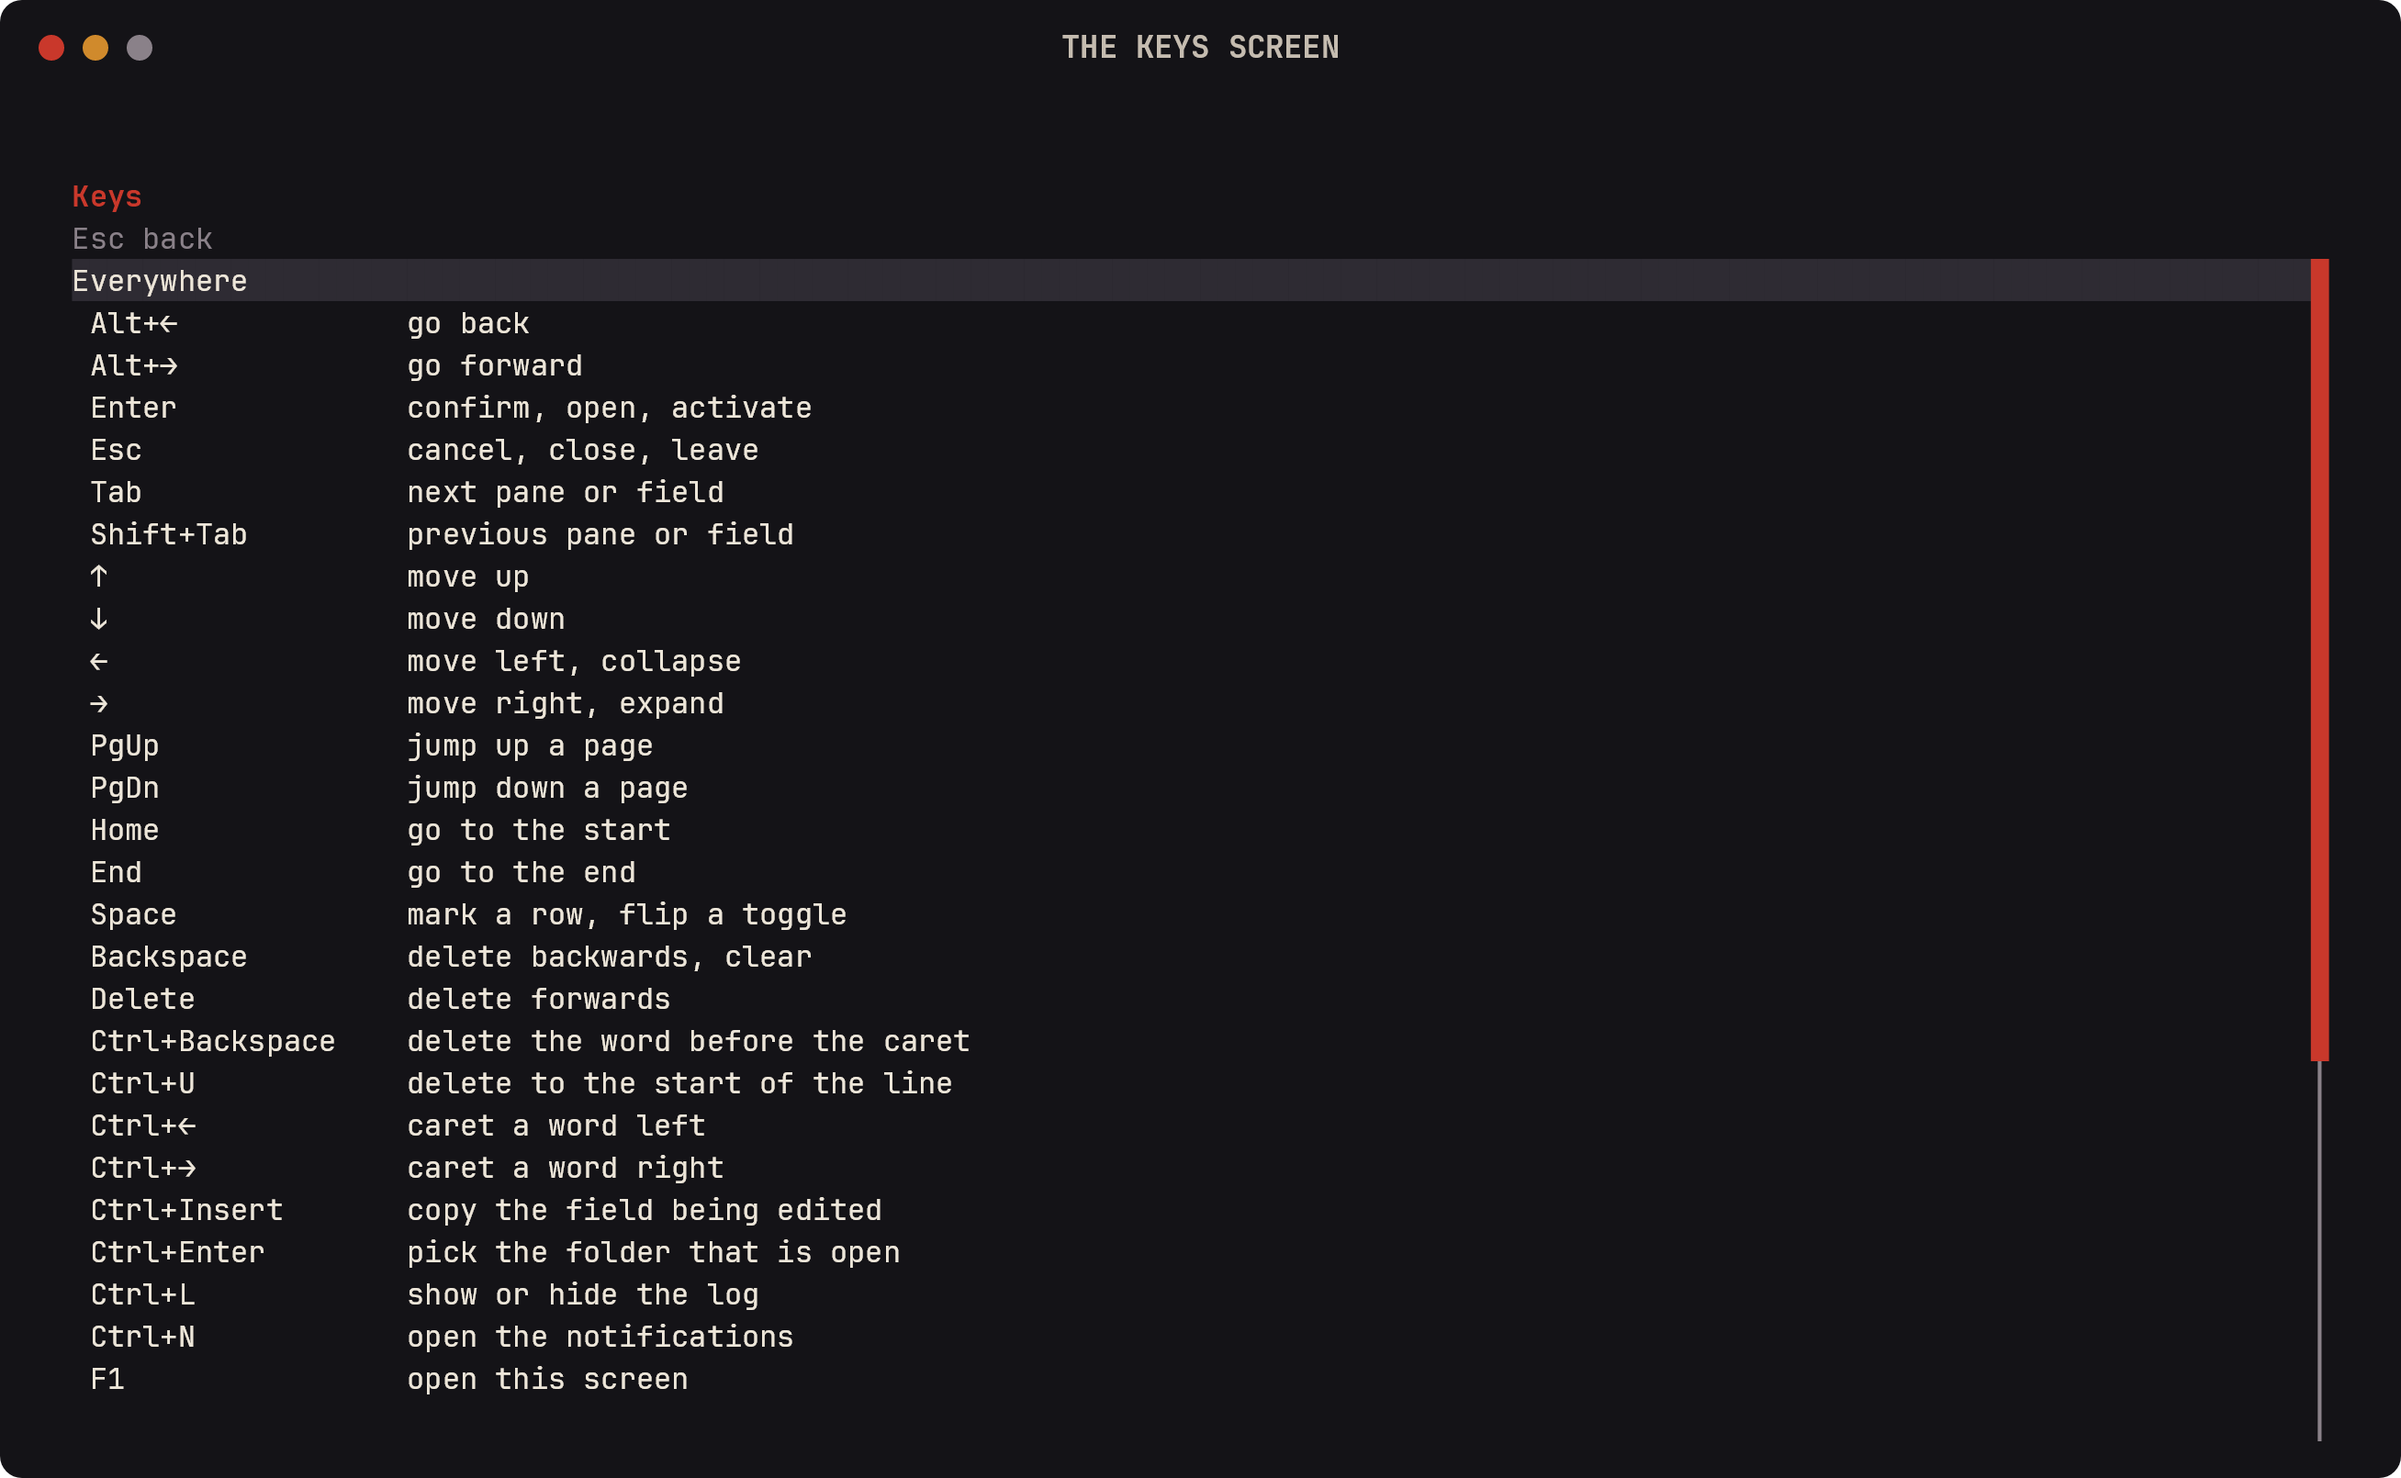
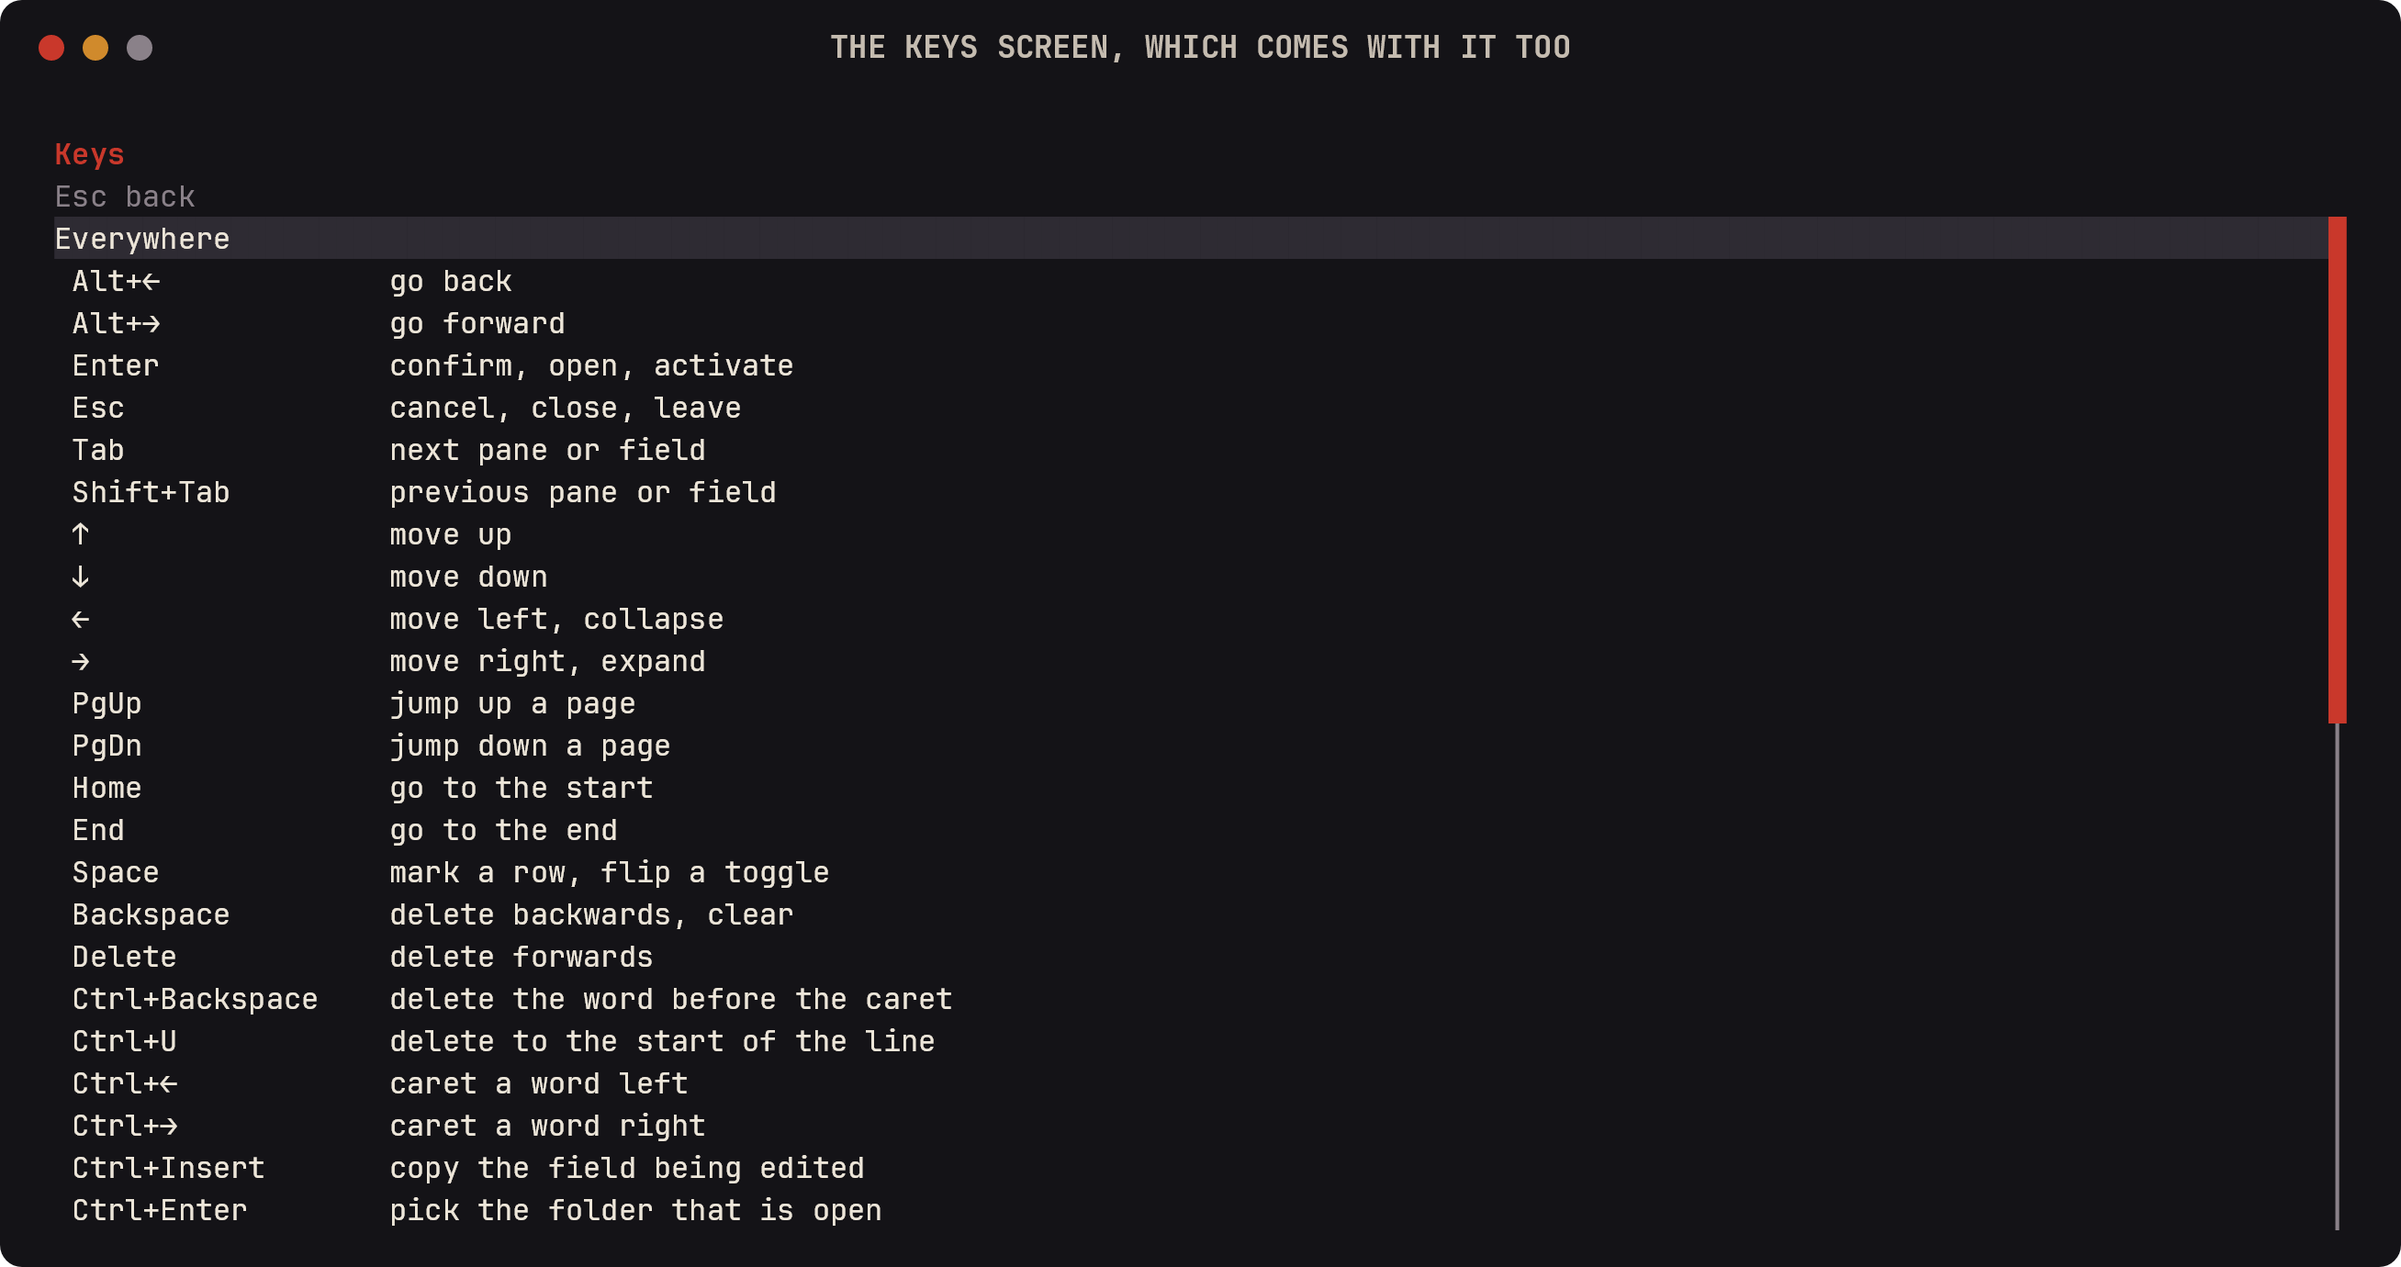
Show the commander in the docs instead of the sample that moved out

diff --git a/src/pages/index.tsx b/src/pages/index.tsx
@@ -202,13 +202,13 @@ function Screenshot(): ReactNode {
       <div className="container">
         <h2>What it looks like</h2>
         <p>
-          <Link to="/docs/showcase">Arlecchino.Packages</Link> is a dependency review of a .NET
-          solution built on the framework: a sortable table, tabs, a tree, a form on atoms, every
-          modal, the command palette and the file picker.
+          <Link to="/docs/showcase">Arlecchino.Commander</Link> is a Midnight Commander built on the
+          framework: two panels over local disks, SFTP and FTP, every modal, work that runs in the
+          background and reports itself, the command palette and the keys screen.
         </p>
         <img
-          src={useBaseUrl('img/screenshots/inventory.png')}
-          alt="Every package in the solution, coloured by what is wrong with it"
+          src={useBaseUrl('img/screenshots/panels.png')}
+          alt="Two panels over a local disk"
         />
       </div>
     </section>

diff --git a/docs/showcase.md b/docs/showcase.md
@@ -1,50 +1,82 @@
 ---
 title: Showcase
 sidebar_label: Showcase
-description: The three sample applications that ship in the repository, what each one demonstrates, and how to render any of their screens as a single frame.
+description: The applications built on Arlecchino, what each one demonstrates, and how to render any of their screens as a single frame.
 ---
 
 # Showcase
 
-Three applications ship in the repository. They are the readable version of everything on these pages:
-each one is built on the public API and nothing else.
+Three applications are the readable version of everything on these pages: each one is built on the
+public API and nothing else. Two ship beside the framework; the largest has a repository of its own.
 
-## Arlecchino.Packages
+## Arlecchino.Commander
 
-A dependency review for a .NET solution, and the largest of the three. It runs `dotnet list package`
-four times — the graph, newer versions, advisories, deprecations — merges the reports into one
-catalogue, and shows what came out across four screens.
+A Midnight Commander, and the largest of the three. Two panels, the function keys where they have
+always been, and the same panel over a local disk, an SFTP server or an FTP one. It lives in
+[its own repository](https://github.com/The1fEst/Arlecchino.Commander) and takes the framework from
+NuGet, the way an application of yours would.
 
 ```bash
-dotnet run --project samples/Arlecchino.Packages
+dotnet run --project src/Arlecchino.Commander -- C:\some\folder C:\another
 ```
 
-![Every package in the solution, coloured by what is wrong with it](/img/screenshots/inventory.png)
+![Two panels over a local disk](/img/screenshots/panels.png)
 
-With no arguments it reads the fixture solution kept beside it — three projects wired to packages that
-are outdated, vulnerable, deprecated and resolved at more than one version, so every screen has
-something to show without reaching for a real repository. `--solution <path>` points it at one of
-yours.
+Each panel is a [table](table.md) over one folder. `Space` marks a row, and what is marked is counted
+at the foot of the panel:
 
-| Screen | What it shows | Uses |
+![Three files marked, counted at the foot of the panel](/img/screenshots/marks.png)
+
+Either panel sorts by name, size or date, narrows down to a filter, and reads a file without leaving
+the panels:
+
+![The right panel sorted by size](/img/screenshots/sorted.png)
+
+![The panel filtered by name](/img/screenshots/filter.png)
+
+![A file read without leaving the panels](/img/screenshots/viewer.png)
+
+| Part | What it shows | Uses |
 |---|---|---|
-| Inventory | A filtered table behind tabs | [`Table`](table.md), [`Tabs`](tabs.md), [text modal](modals.md#text) |
-| Package | One package, its advisories and every project that pulls it in | [Regions](layout.md#regions), [`ListBox`](lists.md) |
-| Projects | The dependency tree beside a per-project table | [`Tree`](tree.md), [`FocusRing`](focus.md) |
-| Upgrade | A form that writes `dotnet add package` commands and can run them | [`Form`](forms.md), [atoms](atoms.md), every [modal](modals.md) |
+| The panels | Two tables in one layout, either of which may hold the focus | [`Table`](table.md), [`PaneTree`](layout.md), [`FocusRing`](focus.md) |
+| The menu | Sections of a menu offered as lists | [choice modal](modals.md), [view commands](commands.md) |
+| Copy, move, delete | Questions asked first, then the work off the drawing thread | [modals](modals.md), [rendering](rendering.md) |
+| Work in flight | A bar, what is being worked on now, and a key that stops it | [status bar](status-bar.md), [notifications](notifications.md) |
+| Servers | A panel over SFTP or FTP, and a screen that runs commands over SSH | [stores](stores.md), [`Form`](forms.md), [async atoms](async-atoms.md) |
 
-![The vulnerable tab](/img/screenshots/vulnerable.png)
+`F9` opens the menu, and what can be done to what is marked is one list under it:
 
-![The dependency tree beside a per-project table](/img/screenshots/projects.png)
+![The menu, opened by F9](/img/screenshots/menu.png)
 
-![The upgrade form and the commands it would run](/img/screenshots/upgrade.png)
+![What can be done to what is marked](/img/screenshots/file-menu.png)
+
+Copying and deleting ask first, with the negative answer selected, so a stray `Enter` cancels:
+
+![Copying asks where to](/img/screenshots/copy.png)
+
+![Deleting asks first, with no selected](/img/screenshots/delete.png)
+
+Work of any size runs in the background with a bar and `Esc` to stop it, and reports itself as a
+[notification](notifications.md) that opens in full and turns into what came of it:
+
+![A copy running in the background, with a bar and Esc to stop](/img/screenshots/progress.png)
+
+![The same copy opened in full, with Stop offered](/img/screenshots/notification.png)
+
+![The same entry once the copy is over](/img/screenshots/done.png)
+
+A panel connects by a `Host` entry from `~/.ssh/config`, browses the server as it browses a disk, and
+the same credentials run a command on it:
+
+![Hosts read from ~/.ssh/config](/img/screenshots/hosts.png)
+
+![A panel browsing a server over SFTP](/img/screenshots/server.png)
+
+![A command run on that server](/img/screenshots/ssh.png)
 
 It runs **without the output line**, so the bottom row belongs to the screen's own
-[status bar](status-bar.md), and `:h` turns the hints box off and on — the palette command flips
-`options.ShowHints` at runtime.
-
-The four screens render headlessly as `--frame inventory 120x30`, `--frame package 120x26`,
-`--frame projects 120x30` and `--frame upgrade 120x24`.
+[status bar](status-bar.md), and every screen renders headlessly — `--frame 132x26`, with `--keys` to
+play keys first and `--connect` to open a panel on a server.
 
 ## Arlecchino.Processes
 
@@ -72,10 +104,6 @@ the file picker.
 dotnet run --project samples/Arlecchino.Sample
 ```
 
-![The command palette over the inventory](/img/screenshots/palette.png)
-
-![The file picker asking for another solution](/img/screenshots/picker.png)
-
 The frame goes to stdout as ANSI text; the view name is `default`, `about`, `picker`, `widgets`, or one
 of `password`, `number`, `slider`, `toggle`, `multi`, `date`, `time`, `color` to render the matching
 modal over the default view:
@@ -86,13 +114,16 @@ dotnet run --project samples/Arlecchino.Sample -- --frame widgets 100x24
 
 ## Rendering any of them as a frame
 
-Every sample takes `--frame <view> <width>x<height>` and writes one composed frame to stdout. That is
-the fastest way to look at a layout, and it is three lines of wiring in an application of your own —
-see [Rendering](rendering.md#rendering-without-a-terminal).
+Every one of them takes `--frame` and writes a composed frame to stdout — the samples beside the
+framework name a view, the commander names a size. That is the fastest way to look at a layout, and it
+is three lines of wiring in an application of your own — see
+[Rendering](rendering.md#rendering-without-a-terminal).
+
+The command palette and the keys screen are the framework's own, and appear in every one of them:
+
+![The command palette](/img/screenshots/palette.png)
 
 ![The keys screen](/img/screenshots/help.png)
-
-![The log overlay](/img/screenshots/log.png)
 
 ## Built something?
 

diff --git a/docs/getting-started.md b/docs/getting-started.md
@@ -112,22 +112,19 @@ dotnet run --project samples/Arlecchino.Processes
 being written down twice. It renders headlessly too — `--frame processes 110x26` or
 `--frame details 90x18`.
 
-`Arlecchino.Packages` is the largest of the three: a dependency review for a .NET solution. It runs
-`dotnet list package` four times — the graph, newer versions, advisories, deprecations — merges the
-reports into one catalogue, and shows what came out across four screens: a filtered table behind
-[tabs](tabs.md), a package page with its advisories and every project that pulls it in, the
-dependency [tree](tree.md) beside a per-project table, and an upgrade [form](forms.md)
-that writes `dotnet add package` commands and can run them:
+[`Arlecchino.Commander`](https://github.com/The1fEst/Arlecchino.Commander) is the largest of the
+three, and the one with a repository of its own: a Midnight Commander with two panels, the function
+keys where they have always been, and the same panel over a local disk, an SFTP server or an FTP one.
+It takes the framework from NuGet, the way an application of yours would.
 
 ```
-dotnet run --project samples/Arlecchino.Packages
+dotnet run --project src/Arlecchino.Commander -- C:\some\folder C:\another
 ```
 
-It runs without the output line, so the bottom row belongs to the screen's own status bar, and `:h`
-turns the hints box off and on — the palette command flips `options.ShowHints` at runtime.
+Each panel is a [table](table.md); the menu behind `F9` is a [choice modal](modals.md) per section;
+copy, move and delete ask their questions as modals and then run off the drawing thread, reporting
+themselves as [notifications](notifications.md) with a bar and a key that stops them.
 
-With no arguments it reads the fixture solution kept beside it — three projects wired to packages
-that are outdated, vulnerable, deprecated and resolved at more than one version, so every screen has
-something to show without reaching for a real repository. `--solution <path>` points it at one of
-yours. The four screens render headlessly as `--frame inventory 120x30`, `--frame package 120x26`,
-`--frame projects 120x30` and `--frame upgrade 120x24`.
+It runs without the output line, so the bottom row belongs to the screen's own status bar. Every
+screen renders headlessly as `--frame 132x26`, with `--keys` to play keys first and `--connect` to
+open a panel on a server.

diff --git a/docs/tutorial-packages.md b/docs/tutorial-packages.md
@@ -6,11 +6,18 @@ description: Build Arlecchino.Packages from an empty project — a real terminal
 
 # Tutorial: a dependency review
 
-This builds `samples/Arlecchino.Packages` from an empty project. It is a real application rather than
-a widget gallery: it runs `dotnet list package` four times, merges the reports, and shows what came out
-across four screens.
+This builds a dependency review from an empty project. It is a real application rather than a widget
+gallery: it runs `dotnet list package` four times, merges the reports, and shows what came out across
+four screens.
 
-![Every package in the solution, coloured by what is wrong with it](/img/screenshots/inventory.png)
+:::note
+
+The application built here shipped in the framework's repository as `samples/Arlecchino.Packages`
+until 2.6.0, and the sample that ships now is
+[Arlecchino.Commander](https://github.com/The1fEst/Arlecchino.Commander) instead. Every line below
+still builds and runs — the project is simply one you create yourself.
+
+:::
 
 By the end you will have used almost everything the framework has — a
 [store](stores.md) of [atoms](atoms.md), an [async atom](async-atoms.md) with a spinner and a progress

diff --git a/docs/table.md b/docs/table.md
@@ -64,11 +64,11 @@ from the [`ListBox`](lists.md) inside, so everything on that page applies here.
 
 ## A worked example
 
-`samples/Arlecchino.Packages` is a sortable table of a solution's packages behind
-[tabs](tabs.md), coloured by what is wrong with each one:
+Each panel of [`Arlecchino.Commander`](https://github.com/The1fEst/Arlecchino.Commander) is a sortable
+table of one folder, coloured by what each row is — a folder, a marked file, a hidden one:
 
 ```bash
-dotnet run --project samples/Arlecchino.Packages -- --frame inventory 120x30
+dotnet run --project src/Arlecchino.Commander -- --frame 132x26 --left . --right src
 ```
 
 See [Showcase](showcase.md).

diff --git a/docs/packages-and-building.md b/docs/packages-and-building.md
@@ -317,7 +317,6 @@ that is the point of it.
 | `src/Arlecchino.Testing` | Headless test host published as a package |
 | `samples/Arlecchino.Sample` | Gallery of every modal and widget, also the headless `--frame` renderer |
 | `samples/Arlecchino.Processes` | A real application: the process list, live-loaded and sortable |
-| `samples/Arlecchino.Packages` | A dependency review of a solution: four screens over `dotnet list package` |
 | `benchmarks/Arlecchino.Benchmarks` | Frame composition, text measurement, input and atoms |
 | `tests/Arlecchino.Tests` | Test suite: rendering, navigation, every modal, colour conversion |
 | `docs` | This documentation |

diff --git a/docs/tree.md b/docs/tree.md
@@ -64,9 +64,9 @@ blocking the frame.
 
 ## A worked example
 
-The dependency screen of `samples/Arlecchino.Packages` is a tree of projects beside a per-project
-table, with transitive branches folded in:
+`samples/Arlecchino.Sample` shows a tree beside the rest of its gallery, with the branches folded in
+until they are opened:
 
 ```bash
-dotnet run --project samples/Arlecchino.Packages -- --frame projects 120x30
+dotnet run --project samples/Arlecchino.Sample -- --frame widgets 100x24
 ```

diff --git a/docs/tabs.md b/docs/tabs.md
@@ -73,8 +73,8 @@ different widgets rather than different rows of the same one.
 
 ## A worked example
 
-`samples/Arlecchino.Packages` narrows one table down to one kind of problem per tab:
+`samples/Arlecchino.Sample` puts its widget gallery behind tabs, one page each:
 
 ```bash
-dotnet run --project samples/Arlecchino.Packages -- --frame inventory 120x30
+dotnet run --project samples/Arlecchino.Sample -- --frame widgets 100x24
 ```
